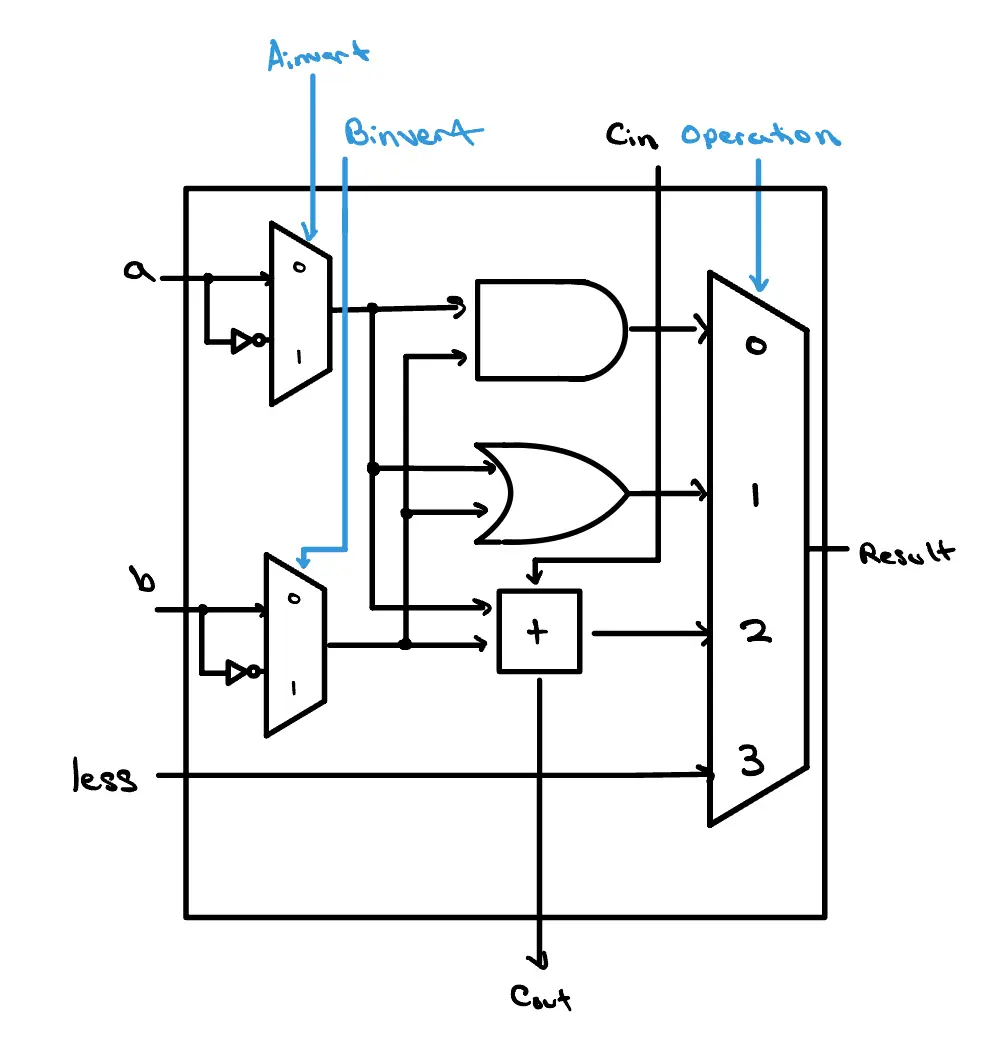
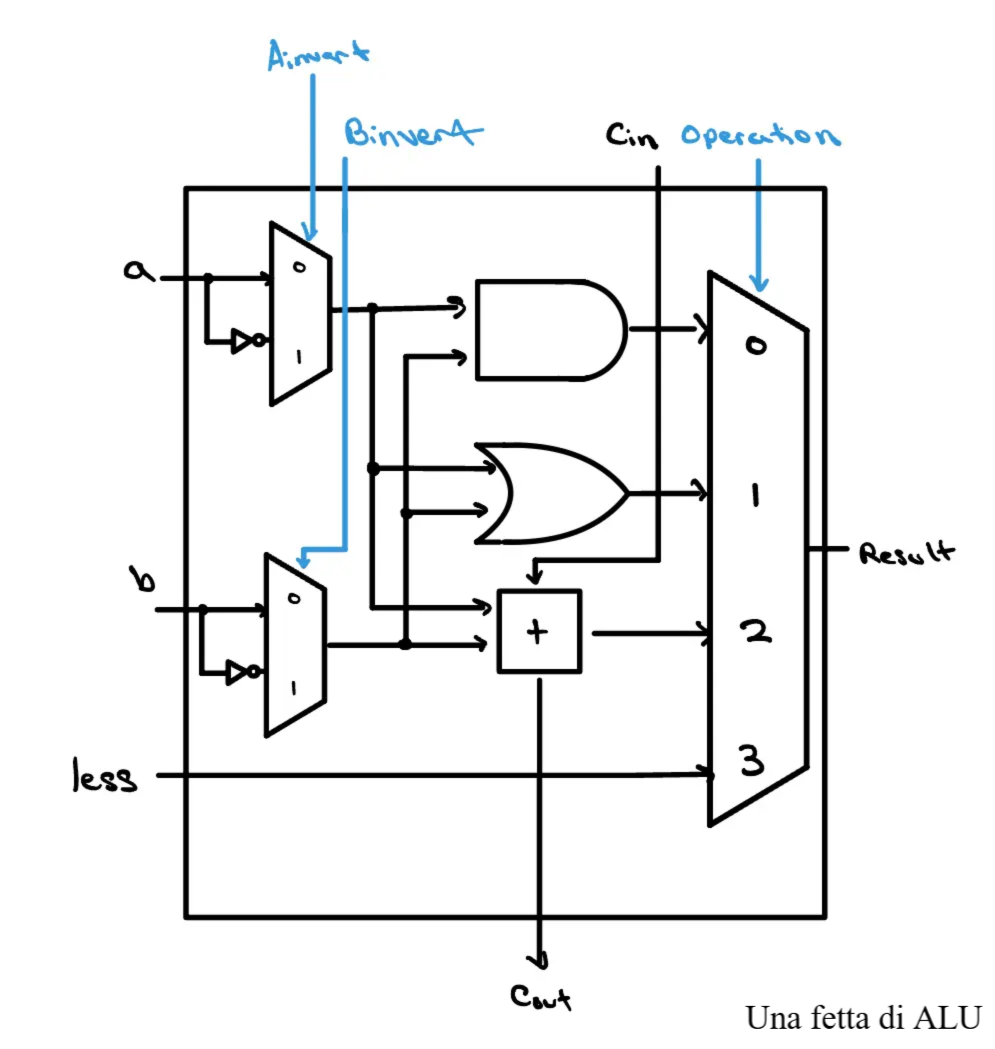
File sincronizati! :)

diff --git a/Anno 1/1 Architettura degli elaboratori/05 Blocchi Digitali/Sottrattori comparatori e ALU.md b/Anno 1/1 Architettura degli elaboratori/05 Blocchi Digitali/Sottrattori comparatori e ALU.md
@@ -43,7 +43,7 @@ Combinando il bit di segno con i flag di zero e overflow si ottengono tutte le r
 
 ## ALU (Arithmetic/Logical Unit)
 Un'**ALU** combina in un unico blocco una varietà di operazioni matematiche e logiche. Un'ALU tipica esegue **addizione, sottrazione, AND e OR**.
-![[Sottrattori comparatori e ALU-1787752697459.webp]]
+![[Sottrattori comparatori e ALU-1787752697459.webp|322x340]]
 ### Struttura tipica
 - un **sommatore** condiviso per ADD e SUB (con inverter e mux su $B$);
 - porte **AND** e **OR** bit a bit;
@@ -56,19 +56,18 @@ Un'**ALU** combina in un unico blocco una varietà di operazioni matematiche e l
 | 10 | AND |
 | 11 | OR |
 
-(La codifica esatta varia; questa è quella usata nel processore del capitolo 7.)
+![[Sottrattori comparatori e ALU-1787753783380.webp|277]]
 
 ### I flag di stato
 L'ALU produce anche i **flag di condizione**, indispensabili per i salti condizionati:
-| Flag | Significato |
-|---|---|
-| **N** (*negative*) | il risultato è negativo (msb = 1) |
-| **Z** (*zero*) | il risultato è zero (NOR di tutti i bit) |
-| **C** (*carry*) | c'è stato riporto in uscita (aritmetica senza segno) |
-| **V** (*overflow*) | overflow in complemento a due |
 
-## Da ricordare
-- $A - B = A + \overline{B} + 1$: stesso sommatore, con inverter e $C_{in}=1$.
-- Uguaglianza: XNOR bit a bit + AND globale.
-- Magnitudine: sottrai e guarda il segno.
-- ALU = sommatore + logiche + mux, comandata da ALUControl; produce N, Z, C, V.
+| Flag               | Significato                                          |
+| ------------------ | ---------------------------------------------------- |
+| **N** (*negative*) | il risultato è negativo (msb = 1)                    |
+| **Z** (*zero*)     | il risultato è zero (NOR di tutti i bit)             |
+| **C** (*carry*)    | c'è stato riporto in uscita (aritmetica senza segno) |
+| **V** (*overflow*) | overflow in complemento a due                        |
+
+
+
+![[Sottrattori comparatori e ALU-1787753748972.webp|393]]
